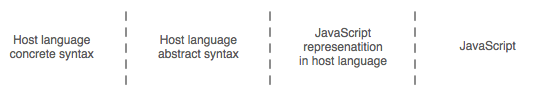
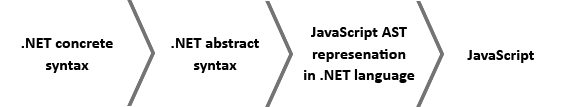
Added approach texts.

Changed region(s): [[0.0, 0.0, 0.9564, 1.0], [0.0, 0.4951, 0.1851, 0.6699]]

diff --git a/chapters/3-approachanalysis/approachanalysis.tex b/chapters/3-approachanalysis/approachanalysis.tex
@@ -1,50 +1,171 @@
 \chapter{Approach Analysis}
 
 \section{Technologies}
-	\subsection{ScriptSharp}
+	In this section we will give a brief description of the technologies associated to the different approaches we have considered.
+
+	\subsection{Script\#} % (fold)
+	\label{sub:subsection_name}
+		ScriptSharp \cite{scriptsharp} is a cross-compiler from C\# to JavaScript that is maintained by Nikhil Kothari \cite{nikhilk} from Microsoft. The way ScriptSharp works is that it compiles an entire C\# project to client side JavaScript code.
+
+		The main assembly ScriptSharp.dll is shown in figure \ref{simplifiedOverview} as a simplified dependency diagram with the most relevant assemblies related to our project. When ScriptSharp is used in a regular manner (i.e. not in MiCS) a C\# AST is build from the C\# source code using classes from the Parser and CodeModel namespaces. The ScriptModel namespace contains classes for building the JavaScript AST before the actual script is generated using classes in the Generator namespace.
+
+				\begin{figure}[H]
+			\begin{center}
+				\centerline{\includegraphics[width=14cm]{resources/images/SimplifiedOverview.png}}
+			\end{center}
+			\caption{Simplified Script\# architecture overview.}
+			\label{simplifiedOverview}
+		\end{figure}
+
+		Another important assembly is the Script.Web.dll. This assembly contains classes E.g. for Document Object Model (DOM) representation.
+
+		Script\# defines a modified version of the .NET mscorlib.dll so that the (modified) .NET core type interfaces resembles the equivalent JavaScript objects. E.g. the ScriptSharp defined System.String type has a CharAt(int index) function that doesn’t exist on the original .NET System.String type but that does exist on a JavaScript string object. One benefit of the modified mscorlib.dll is that it makes the C\# compiler able to validate the C\# code that represents JavaScript code entirely (todo: REF to explanation). 
+
+		The modified mscorlib.dll file is referenced in one’s Visual Studio project (instead of the original one) when a new ScriptSharp project is created. When a ScriptSharp project is compiled a JavaScript file will be generated. This JavaScript file can then be used in other projects (E.g. a Web Forms web application).
+	% subsection subsection_name (end)
+
 	\subsection{Microsoft Roslyn} % (fold)
 	\label{ssub:microsoft_roslyn}
-	
+		todo
 	% subsection microsoft_roslyn (end)
 
 	\subsection{Code Quotations} % (fold)
 	\label{ssub:code_quotations}
-	
+		todo
 	% subsection code_quotations (end)
 
 	\subsection{Expression Trees} % (fold)
 	\label{ssub:expression_trees}
-	
+		todo
 	% subsection expression_trees (end)
 
 	\subsection{Internal DSL} % (fold)
 	\label{ssub:internal_dsl}
-	
+		todo
 	% subsection internal_dsl (end)
 
 \section{Stages when going from .NET Language to JavaScript} % (fold)
 \label{sec:stages_when_going_from_net_language_to_javascript}
+	Before discussing different approaches it make sense to clarify the possible stages in the process of “going” from host to target language. The process (displayed in figure \ref{stages}) moves from left to right and possibly skips stages on the way.
 
+				\begin{figure}[H]
+			\begin{center}
+				\centerline{\includegraphics[width=12cm]{resources/images/stages.png}}
+			\end{center}
+			\caption{Possible approach stages}
+			\label{stages}
+		\end{figure}
+
+	The host language concrete syntax, whether an internal DSL or the host languages native syntax, is what the end user will be utilizing. From this concrete syntax a host language abstract syntax tree (hereinafter AST) can be generated. This AST can be traversed in order to map the host language AST to a JavaScript representation (typically also an AST) in the host language. Finally, JavaScript can be generated from the JavaScript AST.
 % section stages_when_going_from_net_language_to_javascript (end)
 
 \section{Possible Approaches} % (fold)
 \label{sec:possible_approaches}
+	todo text
 
-	Map of Possible approaches here
+					\begin{figure}[H]
+			\begin{center}
+				\centerline{\includegraphics[width=14cm]{resources/images/DSLv2.png}}
+			\end{center}
+			\caption{Map of possible approaches.}
+			\label{approachMap}
+		\end{figure}
 
 	\subsection{Internal DSL Approaches} % (fold)
 	\label{ssub:internal_dsl_approaches}
+
+		The Internal DSL approaches has been separated into two categories. The first where the DSL is used to build a host language AST which later can be mapped to a target language AST. The second where the target language AST is created directly (i.e. the Host Language Abstract Syntax stage is skipped). One significant difference in these two approaches has to do with the possibility of executing code both on server side and client side. When generating the host language AST before mapping to the target language AST its easier to also execute the code in the host language context through dynamic compilation of the host language AST (this approach is discussed in xx TODO).
 	
+		\subsubsection{Internal DSL Directly to JavaScript AST} % (fold)
+		\label{sub:internal_dsl_directly_to_javascript_ast}
+		
+			When utilizing an internal DSL one would need classes for representing primitive types, expression, statements etc. All the target language features that one will make available needs to be mapped to a DSL representation. Every DSL call would then instantiate an equivalent target language AST node.
+
+			One thing important to consider when creating a DSL representing a different language is its syntax. The DSL syntax should resemble the target language concrete syntax so that the DSL is easily utilized by the target users. At the same time, it should make the verbose instantiation (see example below) of host abstract syntax less cumbersome.
+
+			todo: redo code example
+
+		% subsection internal_dsl_directly_to_javascript_ast (end)
+
+		\subsubsection{C\# DSL} % (fold)
+		\label{sub:cs_dsl}
+
+			To approach the project initially we did some experiments with a DSL (in C\#) that created a JavaScript AST directly (i.e. the Host Language Abstract Syntax stage was skipped) (See appendix for class diagram and maybe description of scope / block handling mechanism etc.). Using helper factory methods (to create AST nodes), operator overloading and a scope and block handling mechanism (utilizing Statement Lambdas) one can arrive at a DSL syntax that could be somewhat compared to concrete syntax (see example below).
+
+			todo: redo code example
+
+			There are though different problems with this approach. First of all the syntax is a bit different from any of the existing syntaxes, i.e. it doesn’t exactly resemble regular C\# or JavaScript. This implies that there will be a learning effort before the DSL can be used. Furthermore the syntax is a bit verbose and not optimal when it comes to readability.
+		
+		% subsection subsection_name (end)
+
+		\subsubsection{F\# DSL} % (fold)
+		\label{sub:fs_dsl}
+			One problem with the C\# DSL implementation is that the initial declaration and assignment of the variable “i” is done using “=” operator where any subsequent assignments should be done using the ``Assign(...)'' method (or possibly through overloading an existing operator e.g. ``\%=''). The main reason for this is that it is not possible to override the assignment operator in C\# (QUOTATION). This is a critical problem because if the regular C\# assignment operator ``\='' was used incorrectly by mistake it would not trigger any exceptions and therefore cause a difficult to debug error.  The example below shows exactly this. The variable “i” is assigned in an incorrect manner after its initial declaration according to the DSL syntax.
+
+			todo: redo code example
+
+			This would not be an issue in F\# as the assignment operator could be overloaded. Furthermore it is even possible to implement new operators consisting of one or more characters from a given set of characters, consequently making it possible to implement some special JavaScript operators such as strict equal (===).
+
+			One problem though with the F\# DSL approach is the fact that the F\# native syntax and programming paradigm (e.g. the use of immutable types) is radically different from that of JavaScript (and C\# for that matter). This would imply an even bigger learning curve according to our target user as one would have learn the F\# syntax and programming paradigm together with the DSL. Even if F\# was the language of choice there are other powerful language features (Code Quotations) that might bias you toward a different approach (see section ``Using F\# Code Quotations'').
+		% subsection fs_dsl (end)
+
+		\subsubsection{DSL to Host AST} % (fold)
+		\label{sub:dsl_to_host_ast}
+			To accommodate the mixed side execution goal one possibility in C\# is to utilize Expression Trees. With this approach the DSL would build a host language AST represented as an Expression Tree which hereafter could be mapped to JavaScript. The host language AST can also be compiled into host language executable code using the Compile() feature (todo: QUOTATION) on Expression Trees. With an F\# DSL approach a similar pattern could be achieved with Code Quotations (the Expr type). A more straightforward solution to the mixed side execution goal would though be to not use a DSL. Instead one would use the concrete syntax of host language. Then utilize dynamic compilation to retrieve the host language AST which is what we’ll discuss in the next section (todo: REF ``Using Roslyn'').
+		% subsection dsl_to_host_ast (end)
 	% subsubsection internal_dsl_approaches (end)
+
 
 	\subsection{Host Language Approaches} % (fold)
 	\label{sub:host_language_approaches}
-	
+		Instead of using an internal DSL, tools (or in some cases language features) exist to generate AST’s from native host language code. These can be traversed and processed as desired by the programmer.
+
+		As tools handle the generation of a host language AST, the workload imposed on the programmer by using this approach is considerably smaller than using e.g. an internal DSL. When using an internal DSL it is up to the programmer to implement a library that represents its concrete syntax.
+
+		The workload is also lightened on the end user. When using tools to generate a host language AST it is possible for the end user to write native code and have it converted to JavaScript instead of having to learn how to use a new library.
+
+		As the host language AST is generated from native host language code it is possible to use the same code on both client side and server side, as the client side code is generated from the server side code. This is very useful with cases such as form validation as it is not necessary for the end user to write the same logic in two different languages. Furthermore, it allows the end user to generate client side code reusing code from previous C\# projects.
+
+		Another benefit of using native host language code, is the possibility of testing on server side. As the code is able to run and evaluate on server side, the end user won’t have to write tests in two different languages as the unit testing framework has effectively also been applied to the client side code.
+
+		One disadvantage of using an AST generated from a native host language is that there are no restrictions on what the end user might do. The scope of the project is set by our case study, and as such, our solution will be unable to convert every single construct of an entire language. Should the end user choose to use a language construct that our solution does not support, it will result in a (server-side) runtime error, whereas a DSL would already discover this on compile time. The reason for this is the intrinsic limiting nature of a DSL (todo: REF BOOK: Domain Specific Languages).
+
+		\subsection{Using F\# Code Quotations} % (fold)
+		\label{sub:using_fs_code_quotations}
+		
+			Code Quotations is a built-in feature in the F\# language which lets a developer generate an abstract syntax tree that represents the corresponding F\# code. Code Quotations cover the entire F\# language, meaning that theoretically all F\# constructs can be mapped to a corresponding JavaScript construct.
+
+			The main disadvantage of using Code Quotations is that they require the end user to know a different language from the one in which ASP.NET WebForms Applications are typically written (C\#). This would probably not be a very great barrier if the syntax of the language didn’t vary as much as F\# does from C\#. Also, C\# and JavaScript are somewhat similar in syntax, whereas F\#'s and JavaScripts syntaxes are beyond comparison.
+		% subsection using_f#_code_quotations (end)
+
+		\subsection{Using C\# Expression Trees} % (fold)
+		\label{sub:using_cs_expression_trees}
+			Expression Trees is a built-in feature in the C\# (and Visual Basic) language that “represents code in a tree-like data structure, where each node is an expression, for example, a method call or a binary operation” (REF MSDN). Expression Trees are often used with LINQ to build dynamic queries, which can be useful when fetching data from a database with filters specified by the user (these filters may be provided through a user interface). Expression Trees can be generated from lambda expressions, and thus it is possible to retrieve a representation of simple pieces of code, such as the following:
+
+			todo: code example: Func<int, int, bool> function = (a, b) => a > b
+
+			or more sophisticated ones such as LINQ queries.  A major pitfall using Expression Trees is that they cannot be generated from lambda statements, which prevents the possibility of generating AST’s from blocks of code.
+		% subsection using_C\#_expression_trees (end)
+
+		\subsection{Using Roslyn} % (fold)
+		\label{sub:using_roslyn}
+			Roslyn is a Microsoft project that exposes the C\# and Visual Basic compilers as services. Even though the two are alike, we will focus on C\#. As with F\# Code Quotations, Roslyn is able to generate an AST from C\# source code, and as with Code Quotations, Roslyn is full fidelity (REF) which means that all C\# constructs can be recognized and parsed into syntax nodes. In fact, the AST generated by Roslyn contains every single character of the original source code, down to the last piece of whitespace. Thus, Roslyn combines the advantages of Code Quotations and Expression Trees by allowing the generation of an AST from every C\# construct (including blocks), and avoiding the unfamiliar F\# syntax.
+		% subsection using_roslyn (end)
 	% subsection host_language_approaches (end)
 
 % section possible_approaches (end)
 
 \section{Deciding on Approach} % (fold)
 \label{sec:deciding_on_approach}
+	todo: text
 
+						\begin{figure}[H]
+			\begin{center}
+				\centerline{\includegraphics[width=14cm]{resources/images/ApproachMatrix.png}}
+			\end{center}
+			\caption{Approach Matrix.}
+			\label{approachMatrix}
+		\end{figure}
+
+	todo: more text
 % section deciding_on_approach (end)

diff --git a/bibliography.tex b/bibliography.tex
@@ -16,6 +16,16 @@
   Msdn.com,
   \emph{\LaTeX: Introduction to ASP.NET and Web Forms}.
   http://msdn.microsoft.com/en-us/library/ms973868.aspx
+
+    \bibitem{scriptsharp}
+  ScriptSharp.com,
+  \emph{\LaTeX: C\# Productivity with JavaScript Ubiquity!}.
+  http://scriptsharp.com
+
+      \bibitem{nikhilk}
+  Nikhil Kothari,
+  \emph{\LaTeX: Nikhil Kothari blog}.
+  http://www.nikhilk.net, https://github.com/nikhilk
 \end{thebibliography}
 
 
